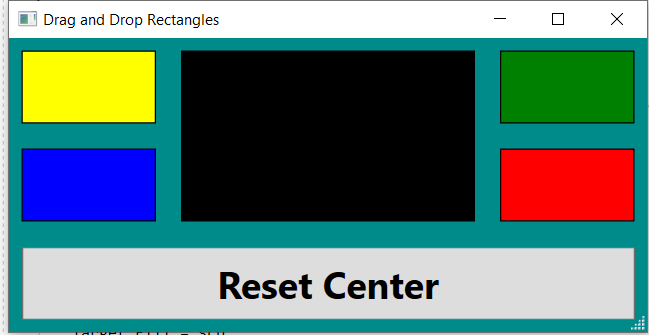
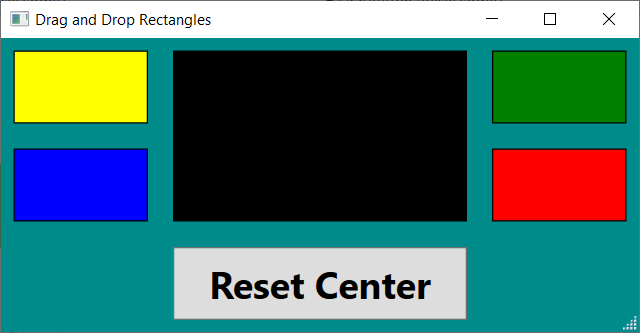
Changed column span of button

diff --git a/DropDragRects/MainWindow.xaml b/DropDragRects/MainWindow.xaml
@@ -26,7 +26,8 @@
         <Button
             x:Name="ResetTarget"
             Grid.Row="2"
-            Grid.ColumnSpan="4"
+            Grid.Column="1"
+            Grid.ColumnSpan="2"
             FontSize="30"
             FontWeight="Bold"
             Click="ResetTarget_Click">

diff --git a/Readme.md b/Readme.md
@@ -1,7 +1,7 @@
 # DropDragRects
 
 
-[Image of Drag and Drop Application](KevinDyke.github.com/DropDragRects/Images/DropDragRects.png)
+[Image of Drag and Drop Application](KevinDyke.github.com/DropDragRects/Images/DragDropRects.png)
 
 
 
